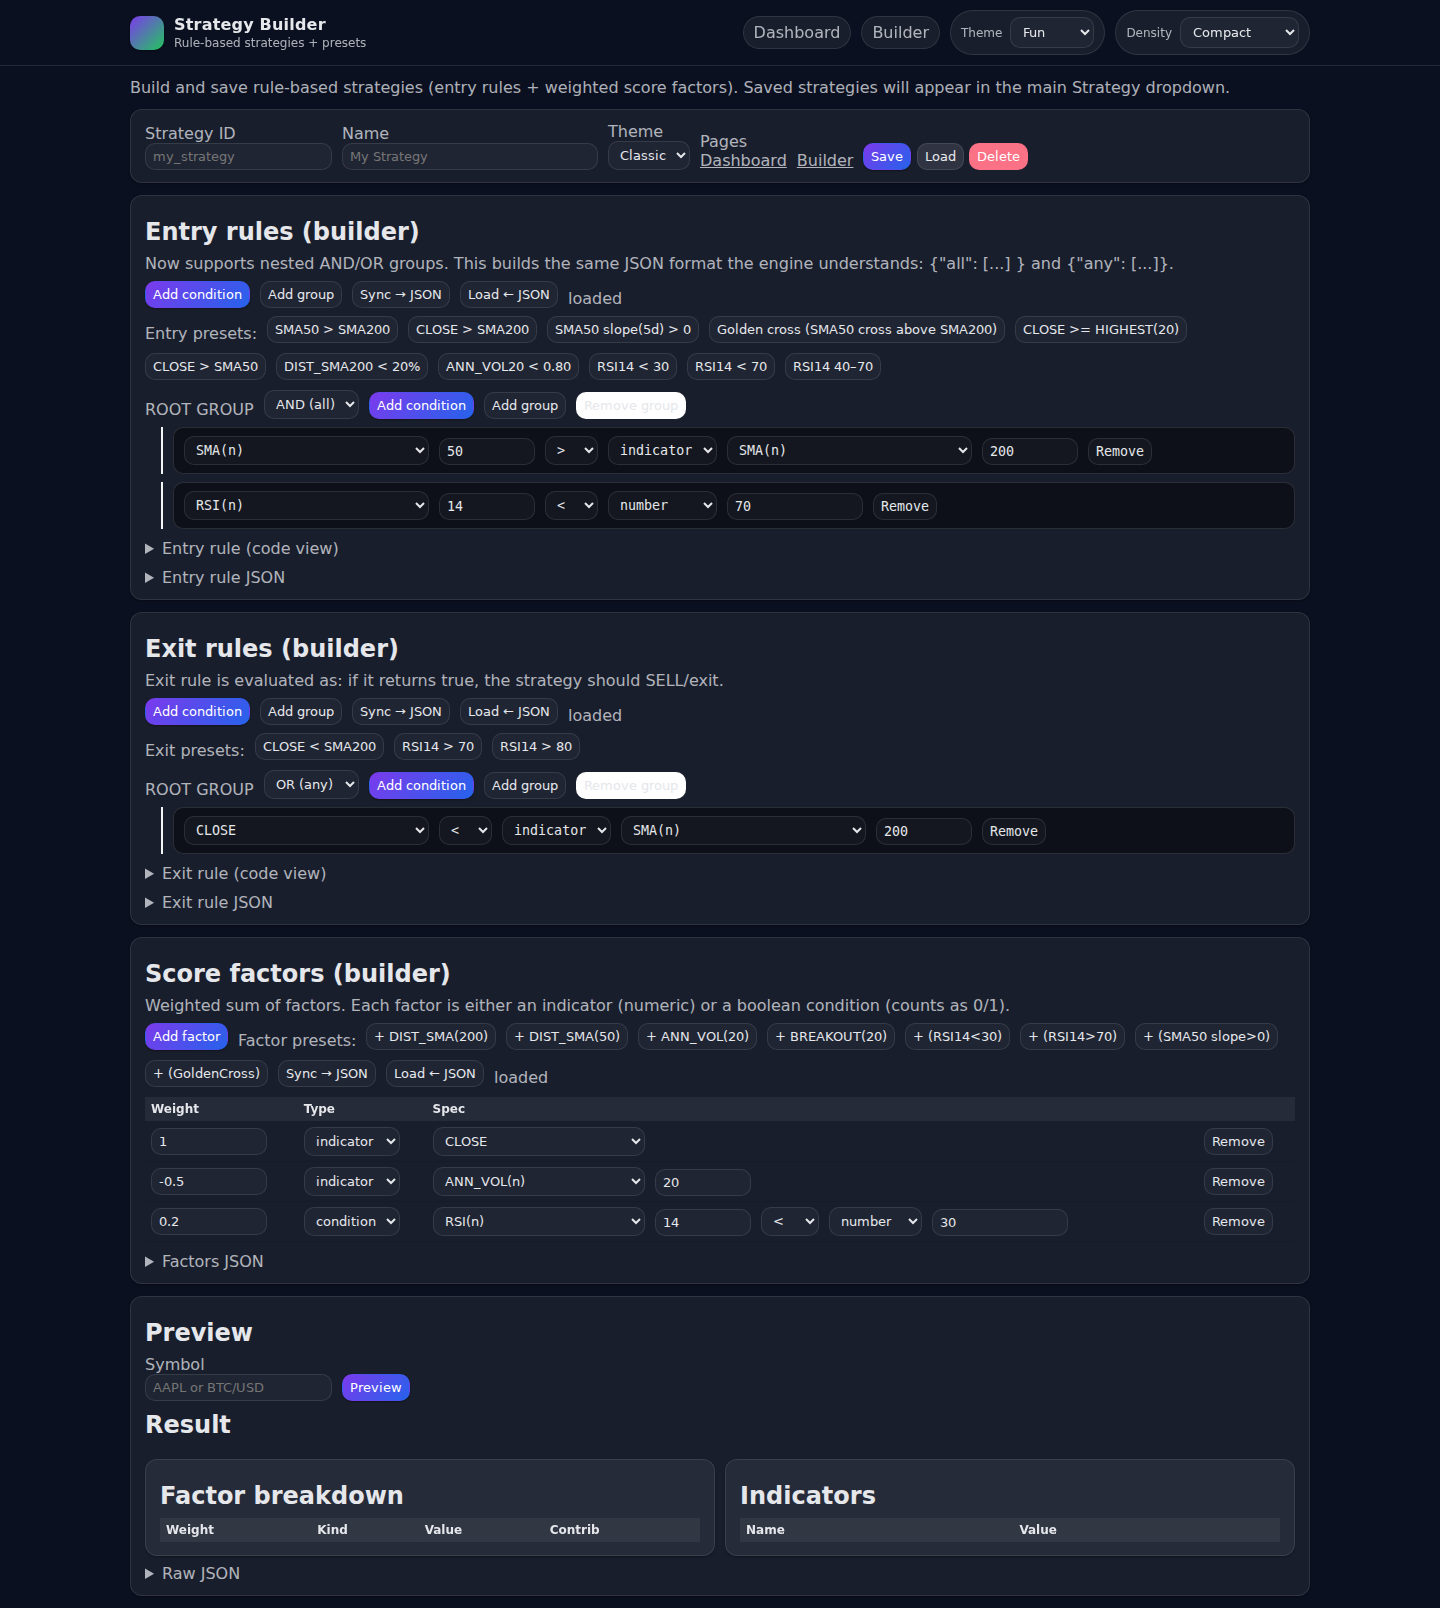
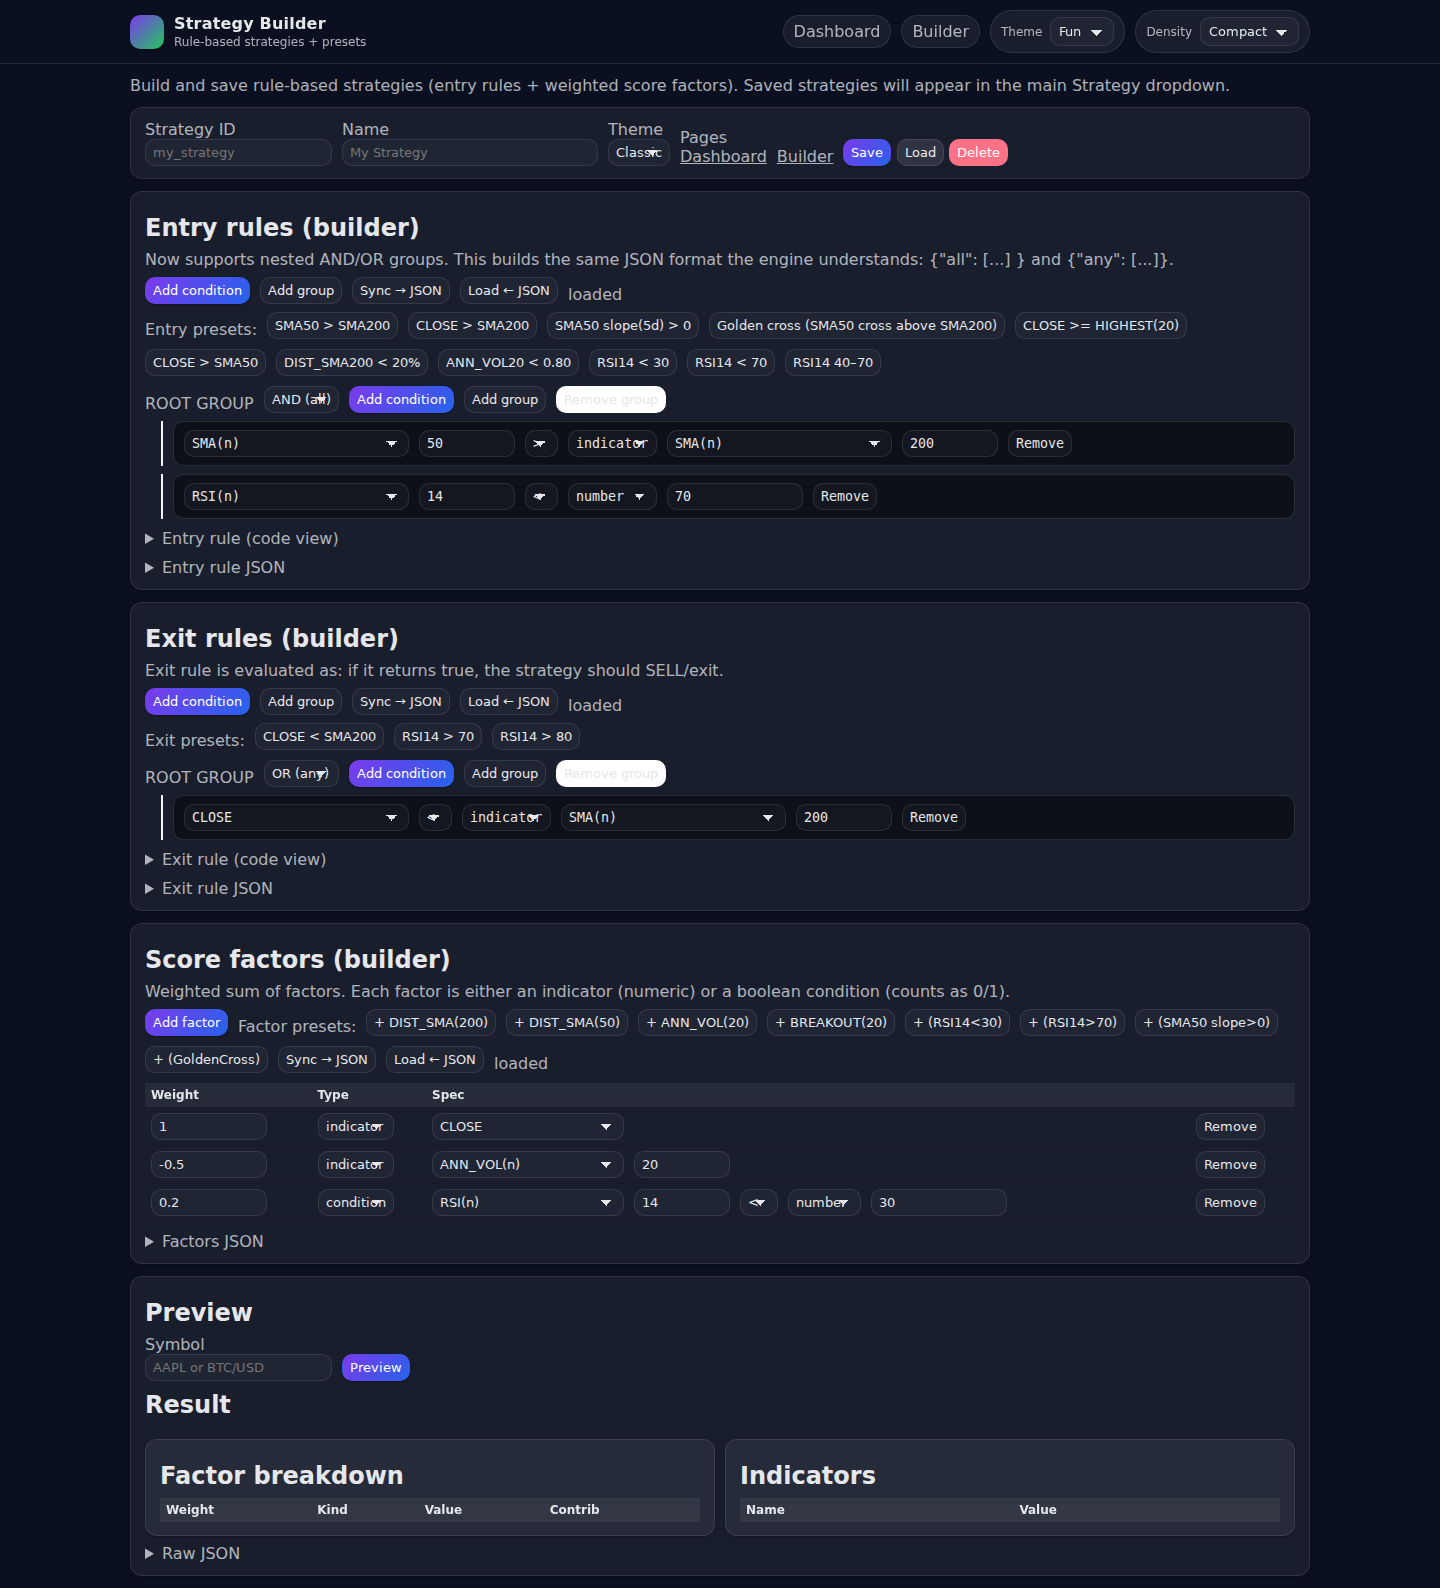
Fix select styling in dark themes

diff --git a/src/tradebot/dashboard/static/themes.css b/src/tradebot/dashboard/static/themes.css
@@ -41,6 +41,7 @@ Keep this file small and variable-driven so we can add themes without touching H
 }
 
 :root[data-theme="classic"] {
+  color-scheme: light;
   --bg: #ffffff;
   --panel: #ffffff;
   --panel-2: #ffffff;
@@ -62,6 +63,7 @@ Keep this file small and variable-driven so we can add themes without touching H
 }
 
 :root[data-theme="fun"] {
+  color-scheme: dark;
   --bg: #0b1020;
   --panel: rgba(255,255,255,.06);
   --panel-2: rgba(255,255,255,.03);
@@ -87,6 +89,7 @@ Keep this file small and variable-driven so we can add themes without touching H
 }
 
 :root[data-theme="dark"] {
+  color-scheme: dark;
   --bg: #0b1220;
   --panel: #0f172a;
   --panel-2: #0b1220;
@@ -189,6 +192,28 @@ input, select, textarea, button {
   border: 1px solid var(--border);
   border-radius: var(--radius-sm);
   background: var(--panel-2);
+  color: var(--text);
+}
+
+select {
+  /* Force consistent rendering across themes (avoid native white selects in dark mode) */
+  appearance: none;
+  -webkit-appearance: none;
+  -moz-appearance: none;
+  background-color: var(--panel-2);
+  padding-right: 28px;
+  background-image:
+    linear-gradient(45deg, transparent 50%, currentColor 50%),
+    linear-gradient(135deg, currentColor 50%, transparent 50%);
+  background-position:
+    calc(100% - 16px) 55%,
+    calc(100% - 11px) 55%;
+  background-size: 6px 6px, 6px 6px;
+  background-repeat: no-repeat;
+}
+
+select option {
+  background: var(--panel);
   color: var(--text);
 }
 
